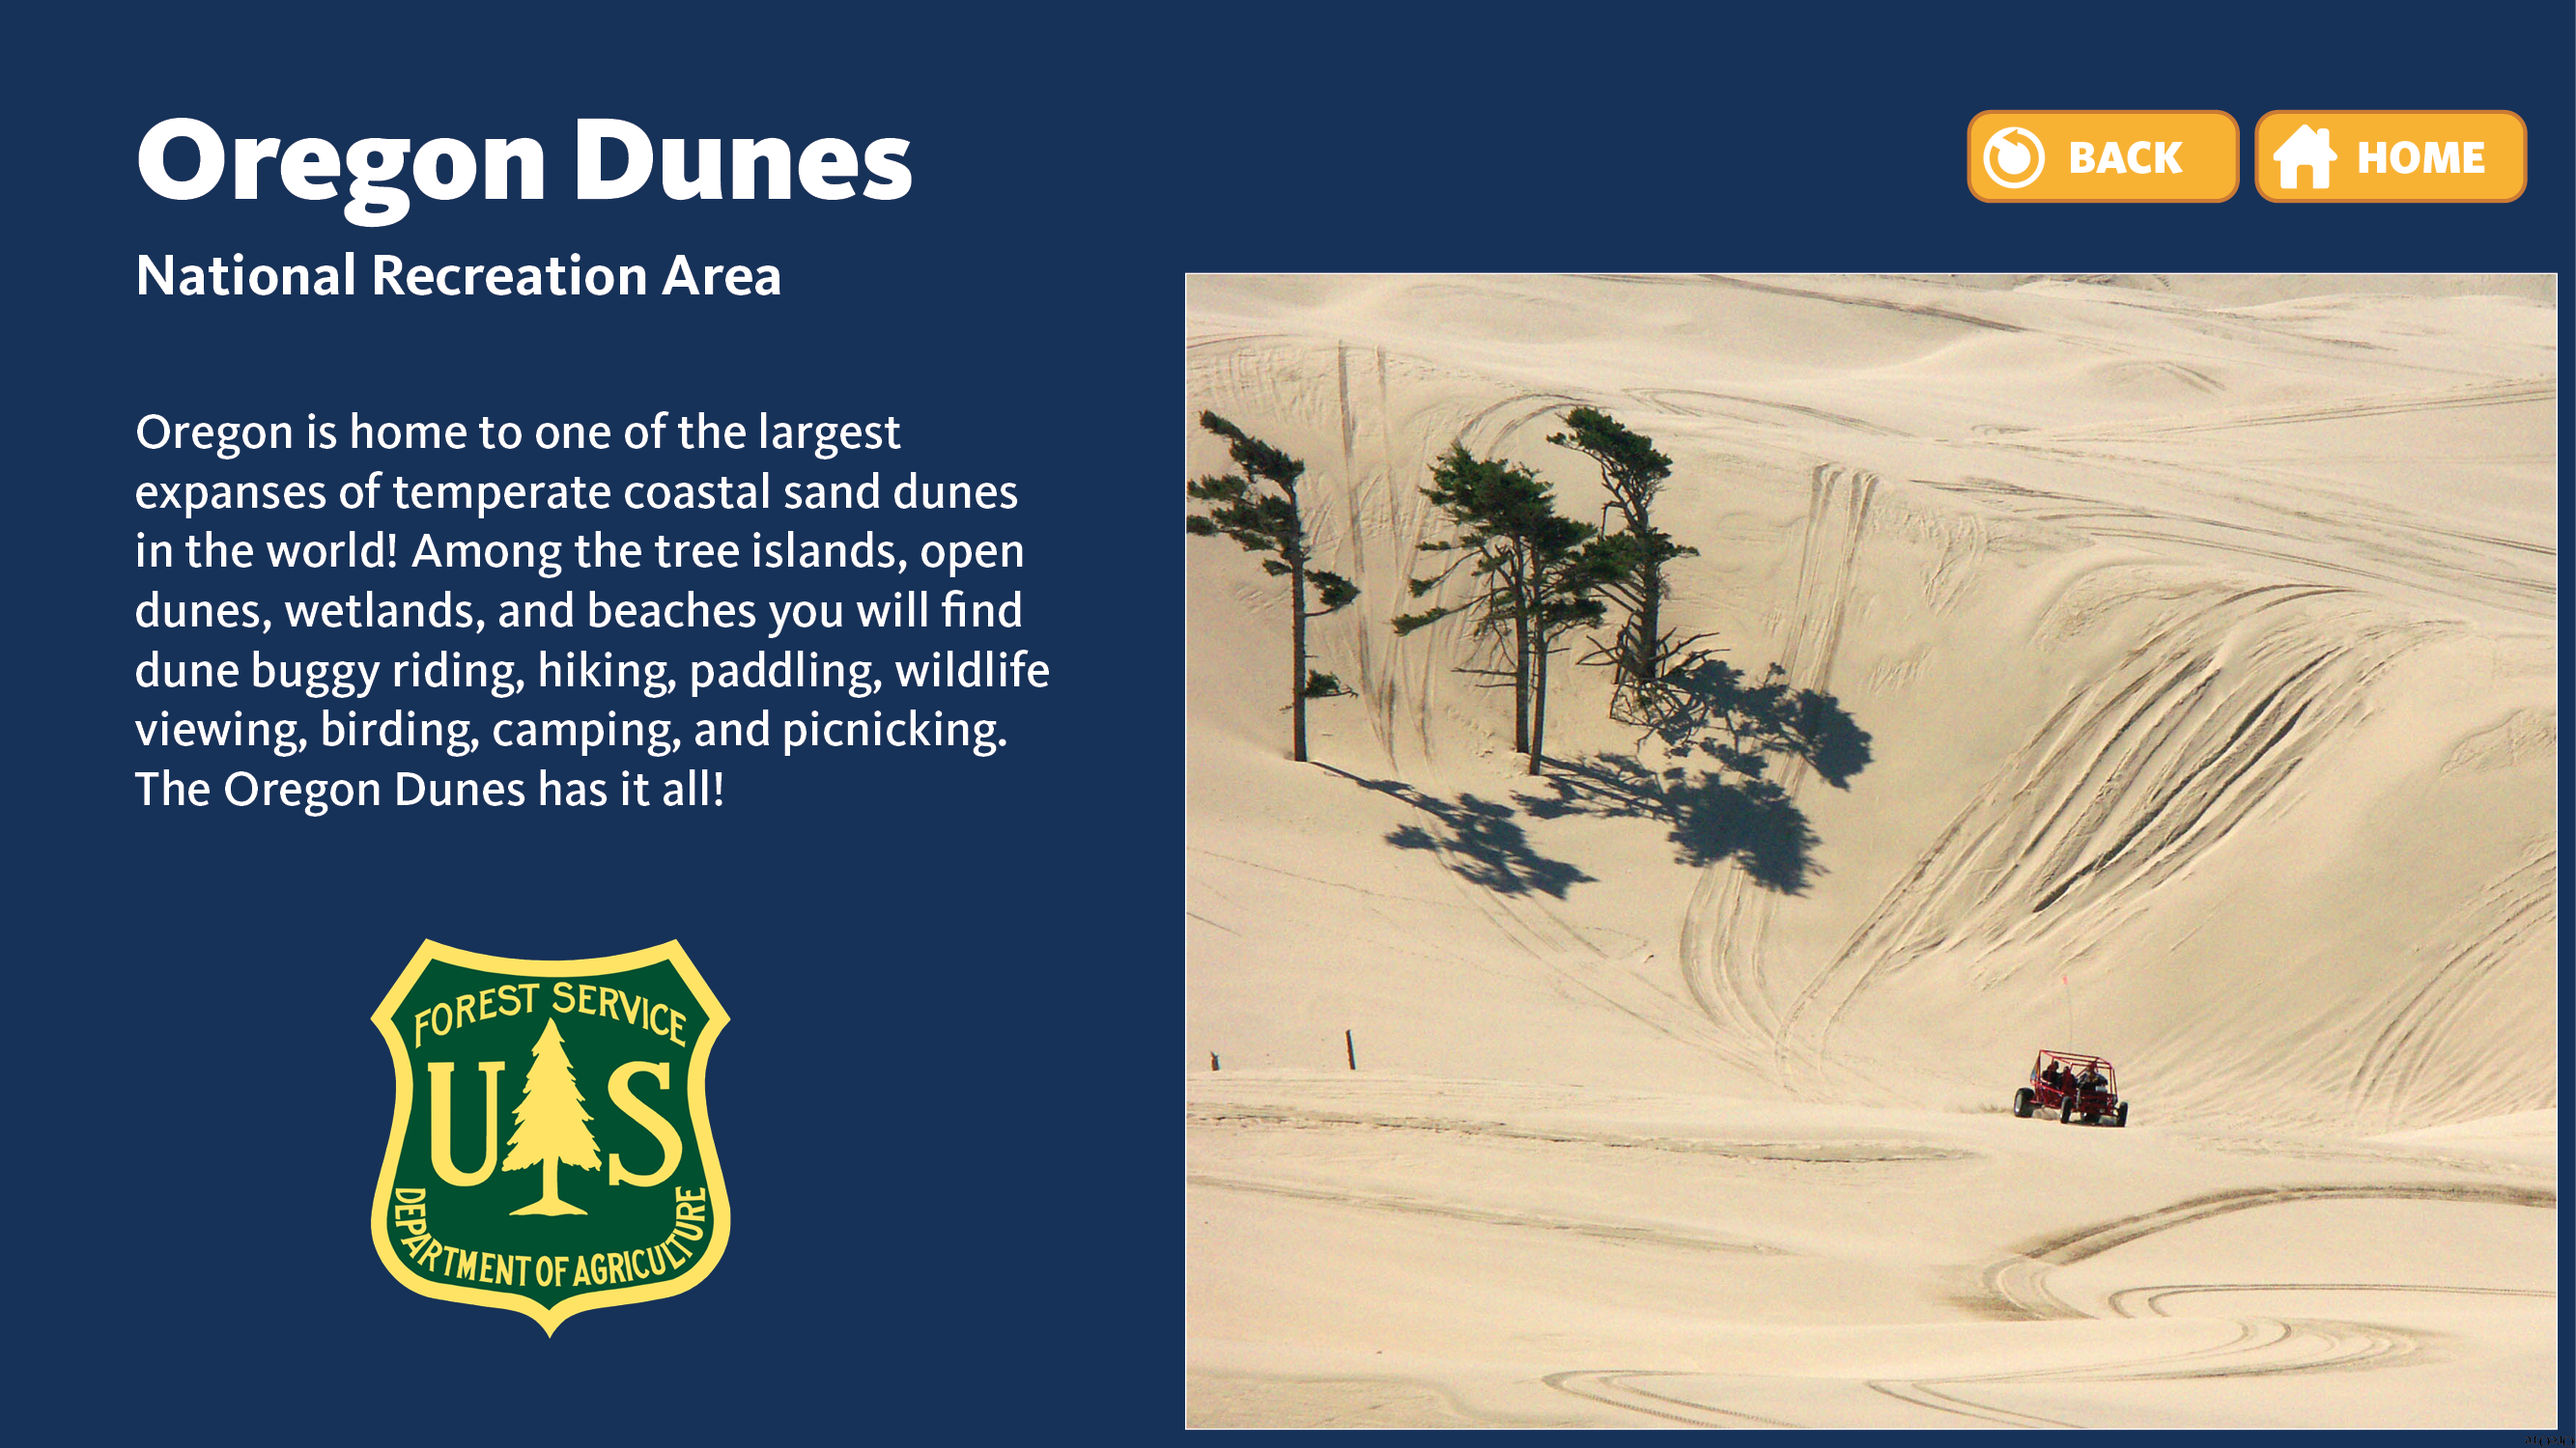
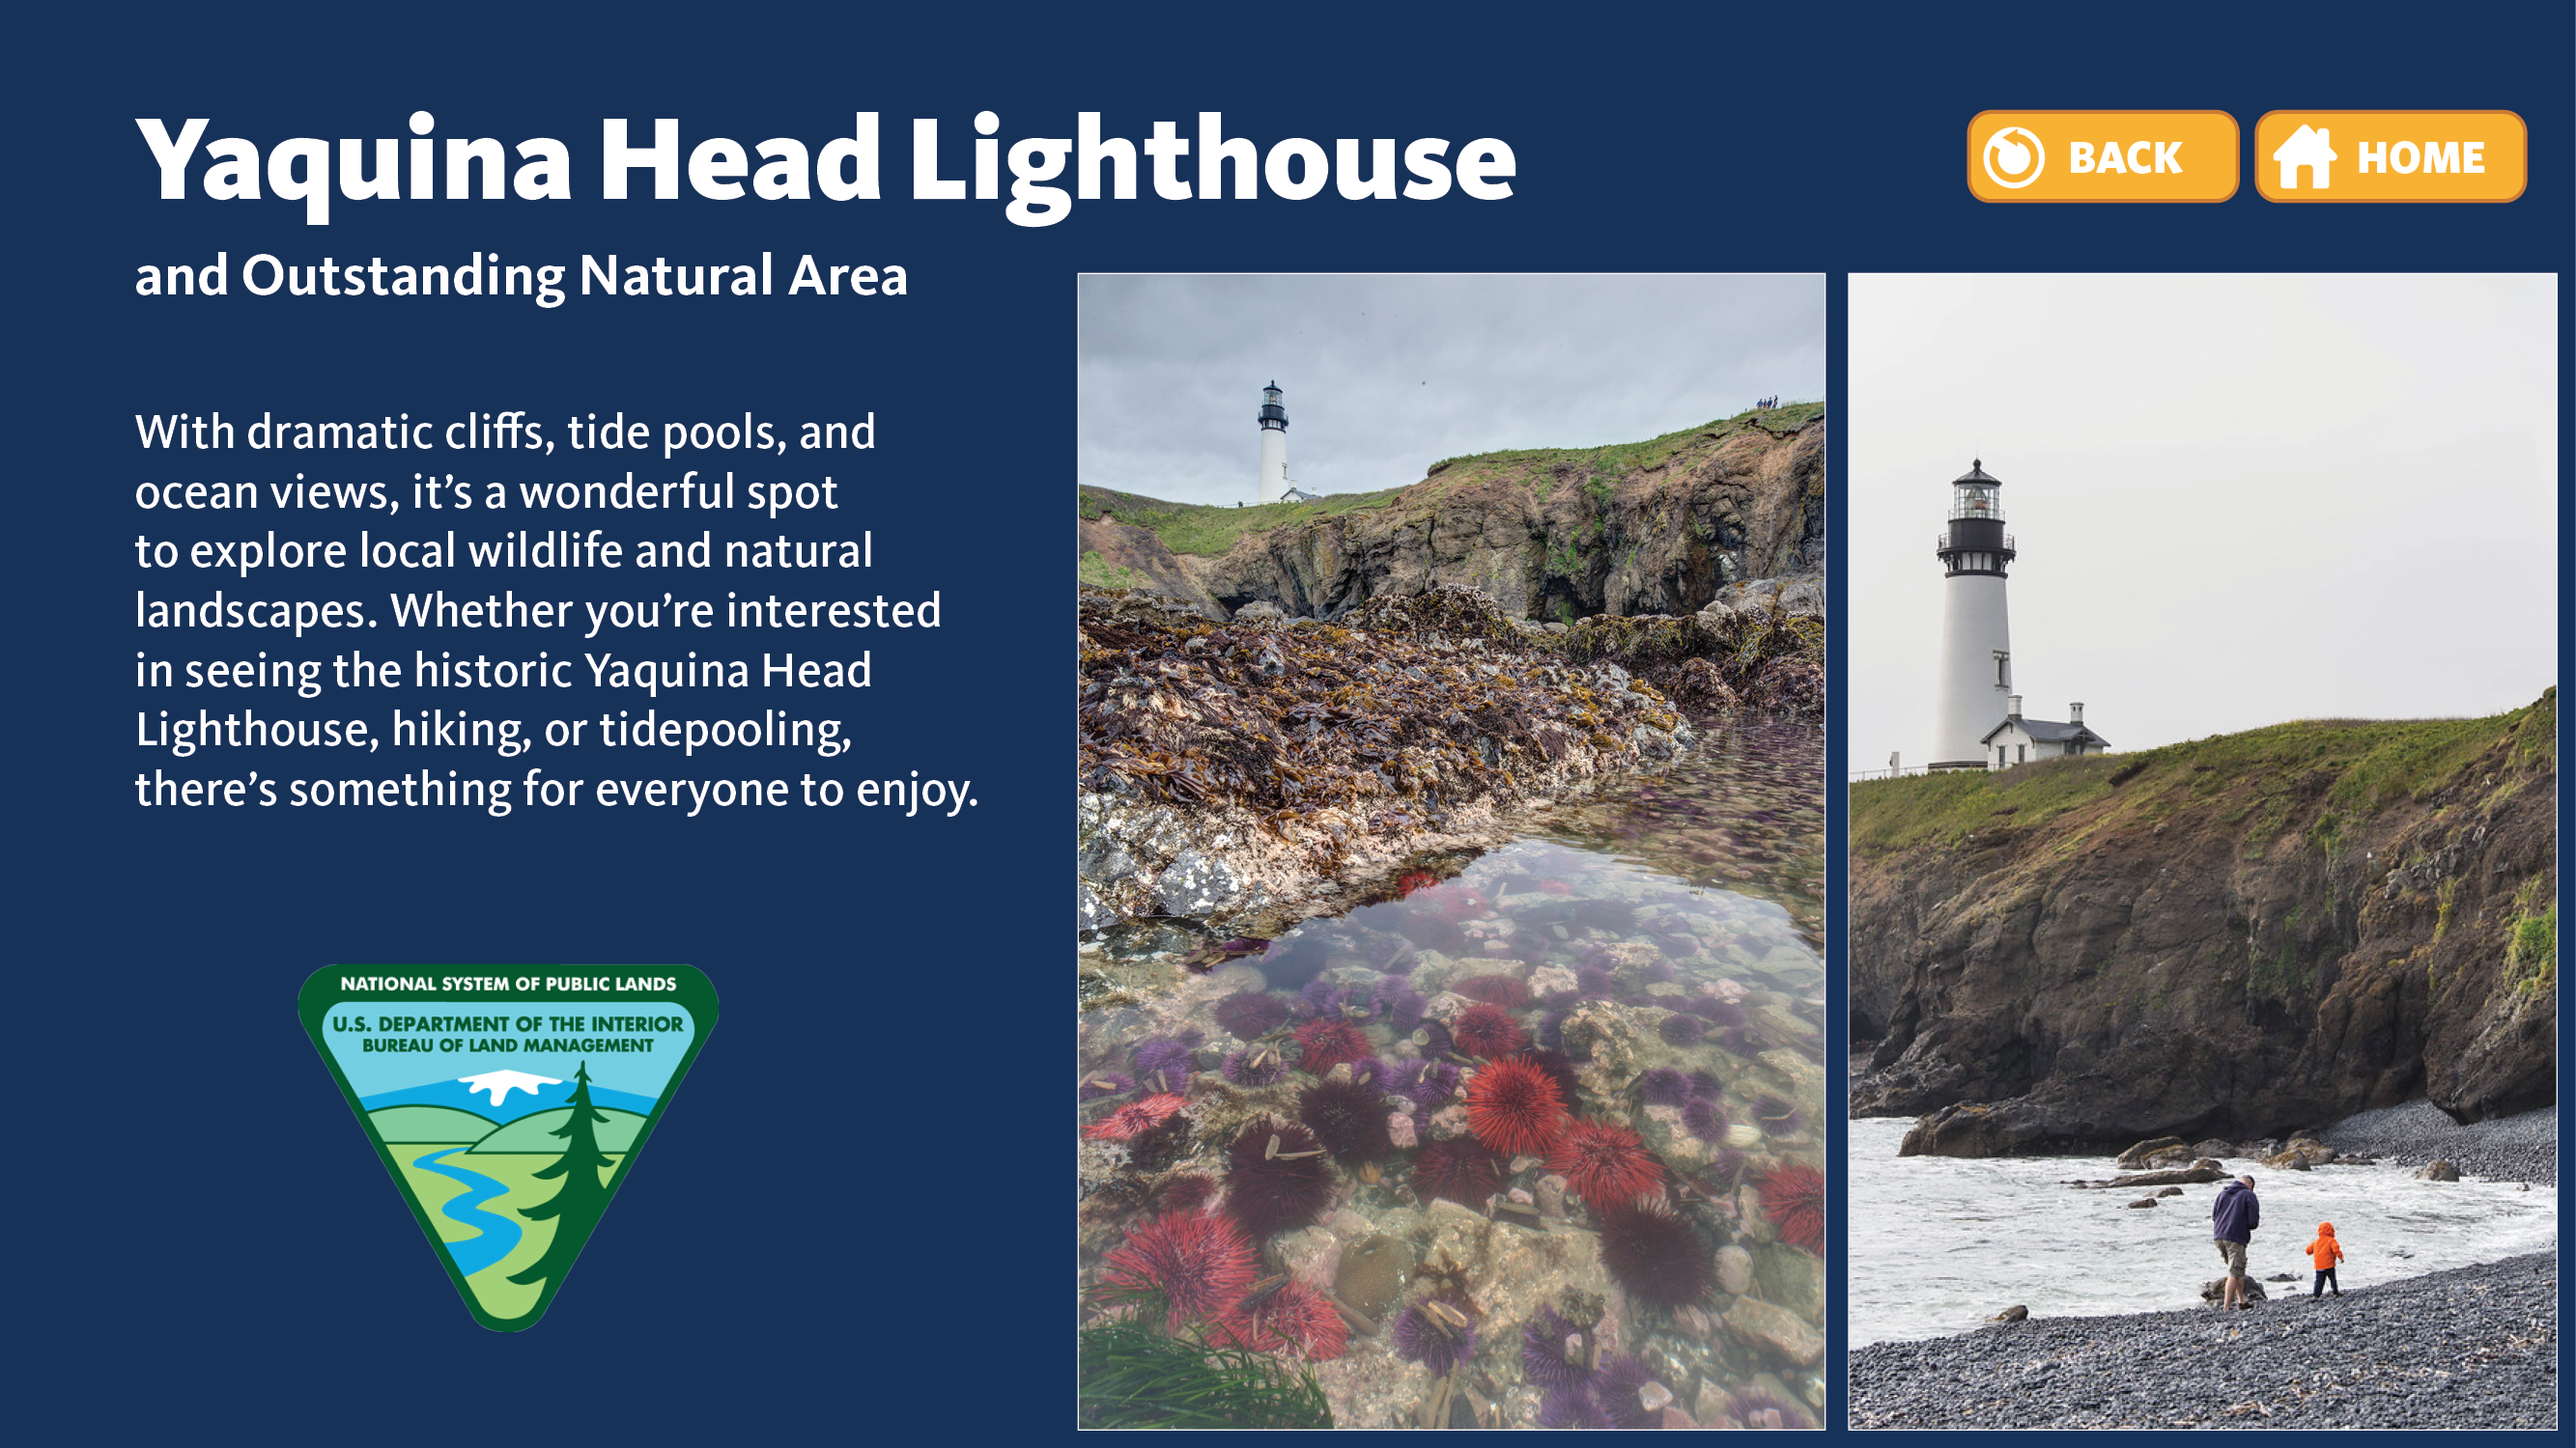
updates image names; adds coast and valley pages

diff --git a/main.py b/main.py
@@ -1,12 +1,18 @@
 import tkinter as tk
-import tkinter.ttk as tkk
 from PIL import Image, ImageTk
 
 root = tk.Tk()
 root.attributes('-fullscreen', True)
 
-canvas = tk.Canvas(root, bg="white", borderwidth=0, highlightthickness=0)
-canvas.pack(side=tk.LEFT, fill=tk.BOTH, expand=True)
+canvas = tk.Canvas(
+    root, 
+    width=root.winfo_screenwidth(), 
+    height=root.winfo_screenheight(), 
+    borderwidth=0, 
+    highlightthickness=0, 
+    bg="white"
+)
+canvas.pack()
 
 def scale_coords(x, y, orig_width=2667, orig_height=1500, target_width=1920, target_height=1080):
     """
@@ -17,35 +23,95 @@ def scale_coords(x, y, orig_width=2667, orig_height=1500, target_width=1920, tar
     scale_y = target_height / orig_height
     return int(x * scale_x), int(y * scale_y)
 
-def create_background(filename, x, y, width, height):
+def create_background(filename, width, height):
     image = Image.open(filename)
     image = image.resize((width, height))
     image = ImageTk.PhotoImage(image)
-    canvas.delete("all")  # Clear previous images
+    canvas.delete("all")  # Clear previous items
     canvas.image = image  # Keep a reference to avoid garbage collection
-    canvas.create_image(x, y, anchor="nw", image=image)
+    canvas.create_image(0, 0, anchor="nw", image=image)
 
 def create_button(filename, x, y, width, height, command=None):
-    scaled_width, scaled_height = scale_coords(width, height)
     image = Image.open(filename)
+    scaled_width, scaled_height = scale_coords(width, height)
     image = image.resize((scaled_width, scaled_height))
     image = ImageTk.PhotoImage(image)
     button = tk.Button(
-        root, 
+        canvas,
         image=image, 
-        command=command, 
-        borderwidth=0, 
+        borderwidth=0,
+        bd=0,
         highlightthickness=0,
-        relief="flat"
+        command=command,
+        height=scaled_height,
+        width=scaled_width
     )
-    button.image = image  # Keep a reference to avoid garbage collection
+    button.image = image
     canvas.create_window(x, y, anchor="nw", window=button, width=scaled_width, height=scaled_height)
 
-create_background("images/Home.png", 0, 0, 1920, 1080)
+def open_home():
+    create_background("images/Home.png", 1920, 1080)  
+    create_button("images/Coast_Button.png", 528, 0, 268, 1500, command=open_coast)
+    create_button("images/Valleys_Button.png", 720, 0, 400, 1500, command=open_valley)
+    create_button("images/Plateau_Button.png", 1007, 0, 1267, 675)
+    create_button("images/Basin_Button.png", 1007, 486, 1267, 825)
 
-create_button("images/Coast_Button.png", 528, 0, 268, 1500)
-create_button("images/Valleys_Button.png", 720, 0, 400, 1500)
-create_button("images/Plateau_Button.png", 1007, 0, 1267, 675)
-create_button("images/Basin_Button.png", 1007, 486, 1267, 825)
+def open_coast():
+    create_background("images/Coast_Home.png", 1920, 1080)
+    create_button("images/Home_Button.png", 1681, 79, 283, 101, command=open_home)
+    create_button("images/Coast_Neskowin_Button.png", 596, 177, 1688, 286, command=open_coast_1)
+    create_button("images/Coast_Yaquina_Button.png", 597, 396, 1688, 286, command=open_coast_2)
+    create_button("images/Coast_Dunes_Button.png", 596, 617, 1688, 286, command=open_coast_3)
+    create_button("images/Coast_SOLVE_Button.png", 595, 839, 1688, 286, command=open_coast_4)
+
+def open_coast_1():
+    create_background("images/Coast_1.png", 1920, 1080)
+    create_button("images/Back_Button.png", 1466, 79, 283, 101, command=open_coast)
+    create_button("images/Home_Button.png", 1681, 79, 283, 101, command=open_home)
+
+def open_coast_2():
+    create_background("images/Coast_2.png", 1920, 1080)
+    create_button("images/Back_Button.png", 1466, 79, 283, 101, command=open_coast)
+    create_button("images/Home_Button.png", 1681, 79, 283, 101, command=open_home)
+
+def open_coast_3():
+    create_background("images/Coast_3.png", 1920, 1080)
+    create_button("images/Back_Button.png", 1466, 79, 283, 101, command=open_coast)
+    create_button("images/Home_Button.png", 1681, 79, 283, 101, command=open_home)
+
+def open_coast_4():
+    create_background("images/Coast_4.png", 1920, 1080)
+    create_button("images/Back_Button.png", 1466, 79, 283, 101, command=open_coast)
+    create_button("images/Home_Button.png", 1681, 79, 283, 101, command=open_home)
+
+def open_valley():
+    create_background("images/Valley_Home.png", 1920, 1080)
+    create_button("images/Home_Button.png", 1681, 79, 283, 101, command=open_home)
+    create_button("images/Valley_Silver_Falls_Button.png", 596, 177, 1688, 286, command=open_valley_1)
+    create_button("images/Valley_McKenzie_Button.png", 597, 396, 1688, 286, command=open_valley_2)
+    create_button("images/Valley_TableRocks_Button.png", 596, 617, 1688, 286, command=open_valley_3)
+    create_button("images/Valley_Bird_Alliance_Button.png", 595, 839, 1688, 286, command=open_valley_4)
+
+def open_valley_1():
+    create_background("images/Valley_1.png", 1920, 1080)
+    create_button("images/Back_Button.png", 1466, 79, 283, 101, command=open_valley)
+    create_button("images/Home_Button.png", 1681, 79, 283, 101, command=open_home)
+
+def open_valley_2():
+    create_background("images/Valley_2.png", 1920, 1080)
+    create_button("images/Back_Button.png", 1466, 79, 283, 101, command=open_valley)
+    create_button("images/Home_Button.png", 1681, 79, 283, 101, command=open_home)
+
+def open_valley_3():
+    create_background("images/Valley_3.png", 1920, 1080)
+    create_button("images/Back_Button.png", 1466, 79, 283, 101, command=open_valley)
+    create_button("images/Home_Button.png", 1681, 79, 283, 101, command=open_home)  
+
+def open_valley_4():
+    create_background("images/Valley_4.png", 1920, 1080)
+    create_button("images/Back_Button.png", 1466, 79, 283, 101, command=open_valley)
+    create_button("images/Home_Button.png", 1681, 79, 283, 101, command=open_home)
+
+open_home()
 
 root.mainloop()
